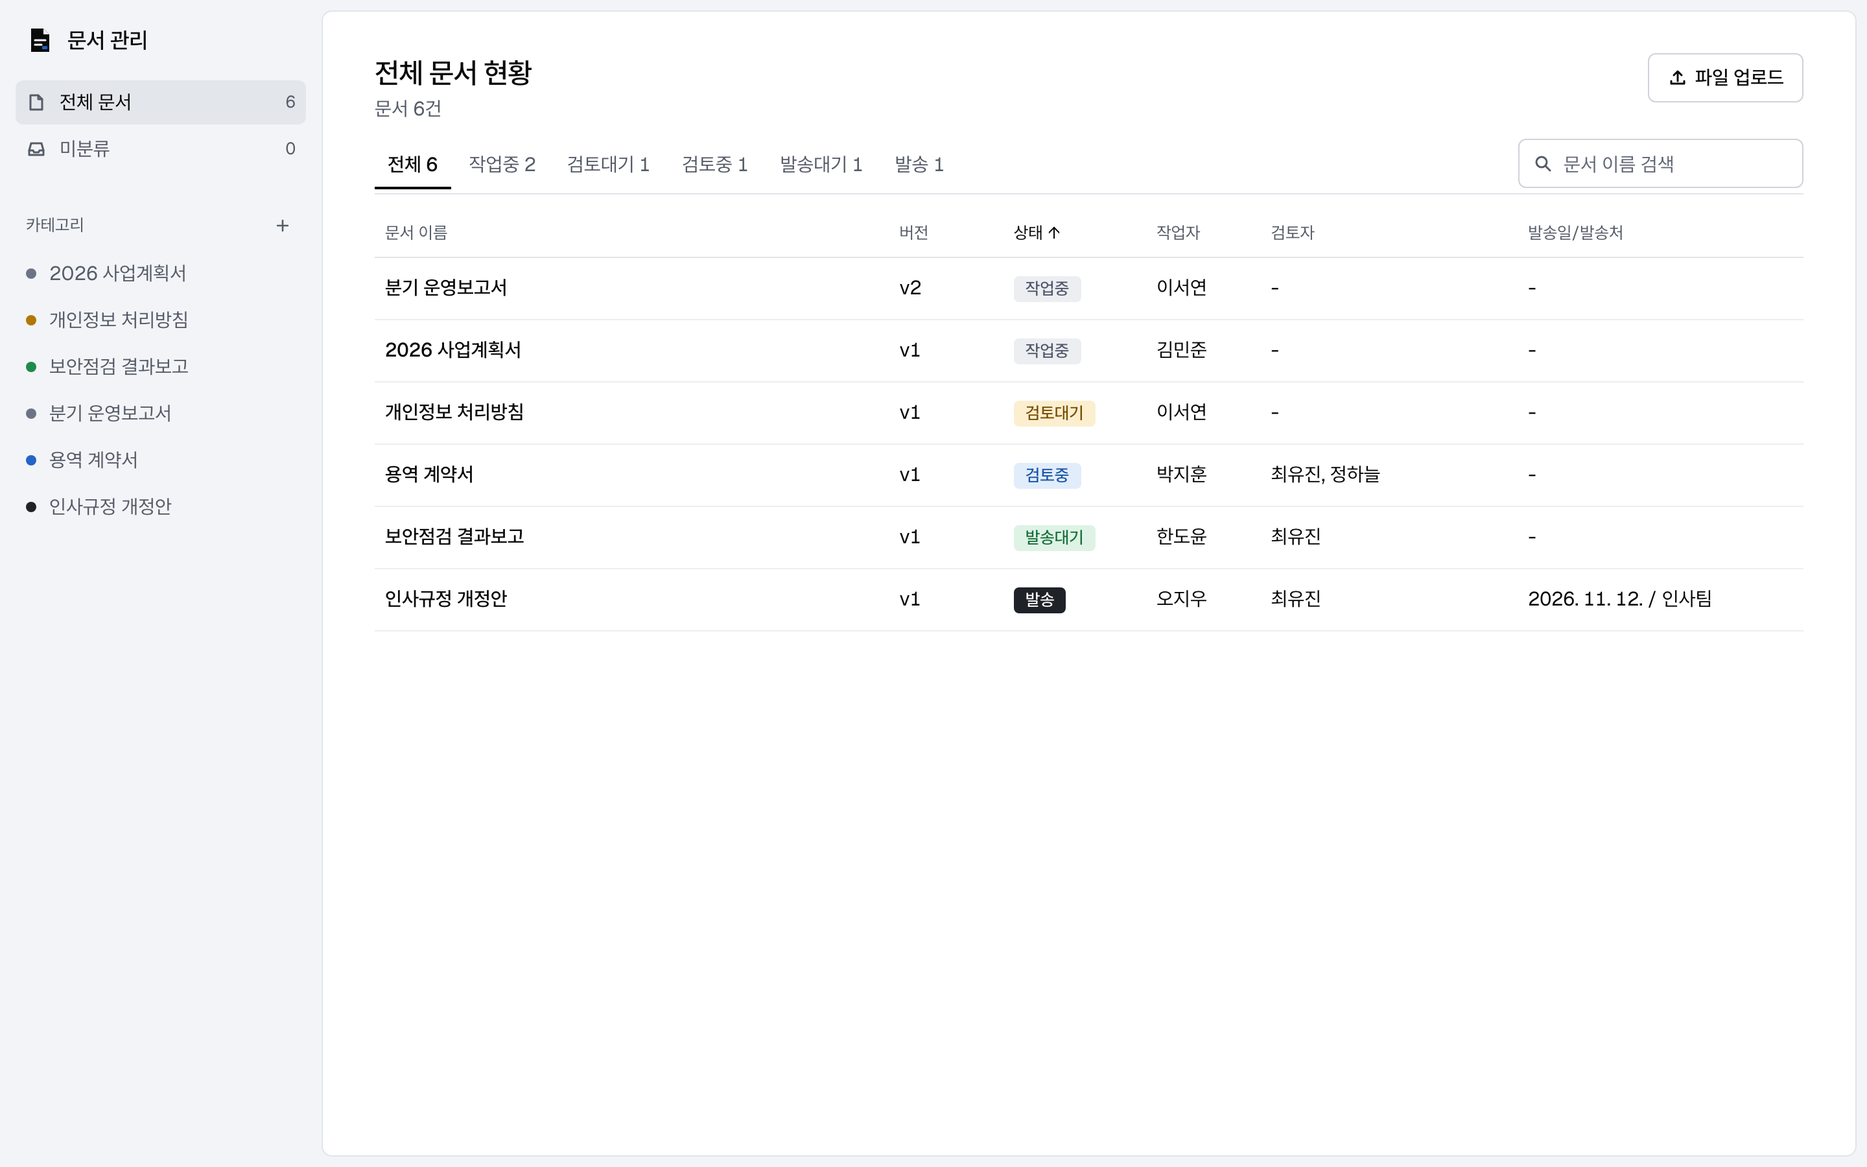
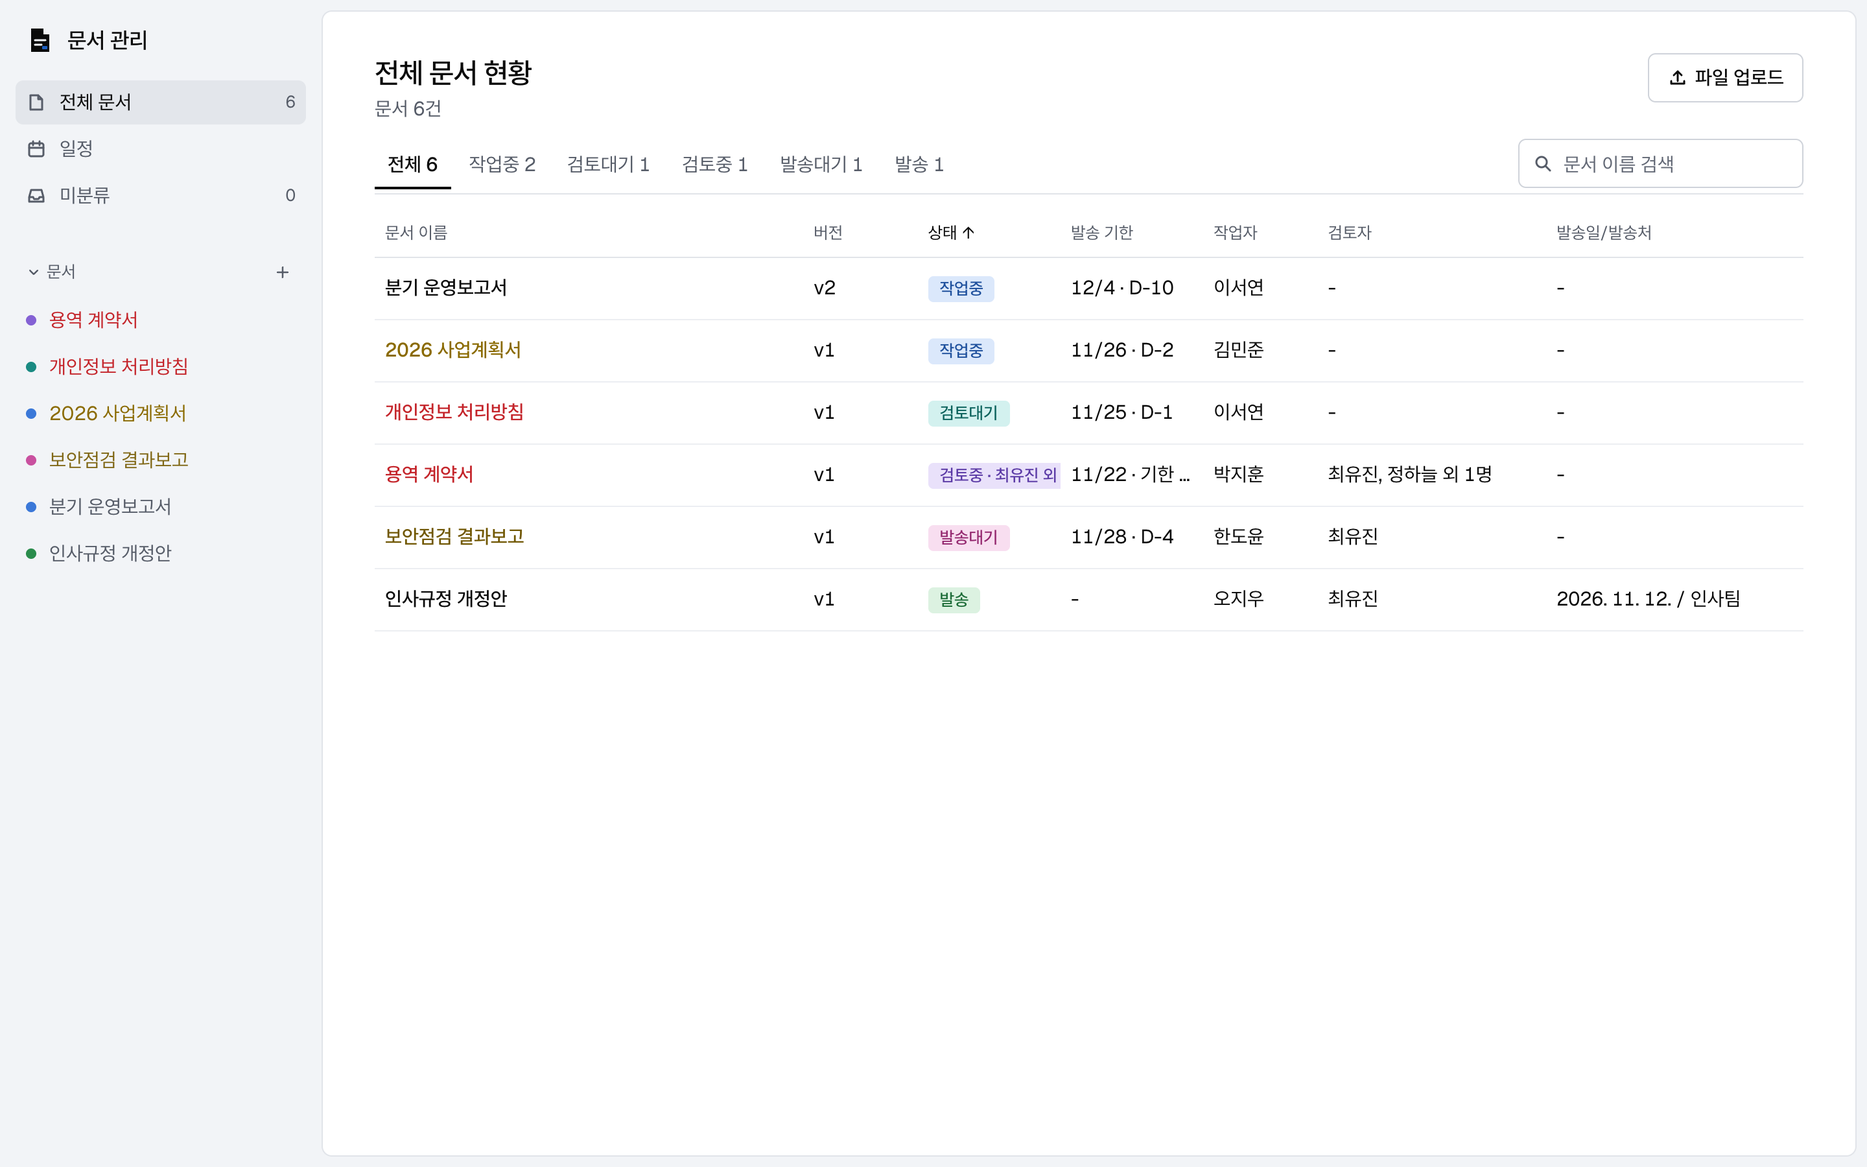
docs: README 다시 작성(일정 간트·발송 기한), 최신 스크린샷·ERD, schema.sql V2~V4 반영
- 루트 README: 일정(간트 차트)·발송 기한 알림·숨김 기능 절, schedule 도메인, 데이터 모델을 ERD 이미지로
- docs/images: board·category·versions를 지금 화면으로 다시 찍고 schedule.png, erd.png 추가
- backend/README(100줄 이내로 정리), frontend/README 추가
- docs/db/schema.sql: V2·V3·V4 합본 반영(SchemaTest 기준)

diff --git a/README.md b/README.md
@@ -2,7 +2,7 @@
 
 # File Manager
 
-문서의 작성, 검토, 발송 과정을 버전별로 기록하는 문서 관리 웹앱
+문서의 작성, 검토, 발송 과정을 버전별로 기록하고, 발송 일정을 간트 차트로 관리하는 문서 관리 웹앱
 
 ![Java](https://img.shields.io/badge/Java-17-007396?logo=openjdk&logoColor=white)
 ![Spring Boot](https://img.shields.io/badge/Spring%20Boot-4.1-6DB33F?logo=springboot&logoColor=white)
@@ -18,9 +18,9 @@
 
 ## 소개
 
-규정, 계약서, 보고서 같은 문서는 여러 번 고쳐서 나갑니다. 공유 폴더에 `최종.hwpx`, `최종_진짜.hwpx`, `최종_수정3.hwpx`가 쌓이면 어느 파일이 검토 중이고 어느 파일을 이미 보냈는지 헷갈립니다.
+규정, 계약서, 보고서 같은 문서는 여러 번 고쳐서 나갑니다. 공유 폴더에 `최종.hwpx`, `최종_진짜.hwpx`, `최종_수정3.hwpx`가 쌓이면 어느 파일이 검토 중이고 어느 파일을 이미 보냈는지, 언제까지 보내야 하는지 헷갈립니다.
 
-File Manager는 문서마다 버전을 만들고, 버전마다 원본, 수정본, 수정대조표를 묶어 둡니다. 각 버전은 아래 다섯 단계를 차례로 거치며, 누가 언제 작업하고 검토하고 발송했는지 기록됩니다.
+File Manager는 문서마다 버전을 만들고, 버전마다 원본, 수정본, 수정대조표를 묶어 둡니다. 각 버전은 아래 다섯 단계를 차례로 거치며, 누가 언제 작업하고 검토하고 발송했는지 기록됩니다. 언제까지 보낼지는 `일정` 화면의 간트 차트로 계획하고, 기한이 다가오는 문서는 화면 곳곳에서 색으로 알려 줍니다.
 
 ```
 작업중 ──▶ 검토대기 ──▶ 검토중 ──▶ 발송대기 ──▶ 발송
@@ -37,19 +37,63 @@ File Manager는 문서마다 버전을 만들고, 버전마다 원본, 수정본
     <td width="50%"><img src="docs/images/versions.png" alt="버전과 수정대조표" /></td>
   </tr>
   <tr>
-    <td align="center">검토중인 버전. 검토자와 검토 시작 시각이 남고, 여기서 승인하거나 거절합니다.</td>
+    <td align="center">검토중인 버전. 검토자와 검토 시작 시각이 남고, 여기서 승인하거나 거절합니다. 문서가 들어 있는 일정과 발송 기한도 보입니다.</td>
     <td align="center">v2의 원본은 v1의 제출본입니다. 수정본은 수정대조표와 함께 올려야 등록됩니다.</td>
+  </tr>
+  <tr>
+    <td colspan="2"><img src="docs/images/schedule.png" alt="일정(간트 차트)" /></td>
+  </tr>
+  <tr>
+    <td colspan="2" align="center">일정 화면. 일정마다 색칸이 깔리고, 문서별 막대는 시작일부터 발송 예정일까지입니다. 기한이 임박했거나 지났거나 일정 기간을 벗어난 문서는 붉은 점선으로 표시됩니다.</td>
   </tr>
 </table>
 
 ## 주요 기능
 
-- 카테고리 하나에 문서가 하나 있습니다. 사이드바에서 카테고리를 고르면 그 문서의 버전 목록이 열리고, 카테고리가 없는 문서는 `미분류`에 모입니다.
-- 작업완료, 검토 시작, 승인, 거절, 발송은 각각 취소할 수 있습니다. 승인과 거절 결정은 회차별 이력으로 남습니다.
+### 문서와 버전
+
+- 카테고리 하나에 문서가 하나 있습니다. 사이드바의 `문서` 목록에서 항목을 고르면 그 문서의 버전 목록이 열리고, 카테고리가 없는 문서는 `미분류`에 모입니다.
+- 첫 버전은 파일 없이 만들 수 있습니다. 원본은 나중에 올리고, 원본을 올려야 작업완료할 수 있습니다.
 - 수정본을 올릴 때는 원본과 비교한 수정대조표도 함께 올려야 합니다. 버전 문서는 `.hwpx`와 `.pdf`만 받습니다.
+- 작업완료, 검토 시작, 승인, 거절, 발송은 각각 취소할 수 있습니다. 승인과 거절 결정은 회차별 이력으로 남습니다.
 - 발송 전에 원본, 발송할 파일, 작업 기록, 검토 기록을 한 화면에서 확인합니다. 승인을 받지 않은 버전은 발송할 수 없습니다.
-- 전체 문서 현황판에서 단계별 탭, 이름 검색, 정렬로 문서를 찾습니다.
+- 단계는 색으로 구분합니다(작업중 파랑, 검토대기 청록, 검토중 보라, 발송대기 분홍, 발송 초록). 작업중이면 작업자, 검토중이면 검토자 이름(여럿이면 `홍길동 외 2명`)이 함께 보입니다.
 - 카테고리마다 빈 양식과 참고자료를 따로 보관할 수 있습니다.
+
+### 일정 (간트 차트)
+
+사이드바의 `일정`을 누르면 문서 발송 계획을 간트 차트로 봅니다.
+
+- **일정**은 이름(20자 이하)과 시작일·종료일을 가진 기간 묶음입니다. 등록하면 배경색(노랑, 하늘, 연두, 분홍, 살구, 청록)이 차례로 자동 배정되고, 차트에 그 기간만큼의 색칸으로 그려집니다.
+- **발송 문서**는 문서 하나의 시작일부터 발송 예정일까지를 나타내는 막대입니다. 일정 안에 넣거나 `일정과 관계없는 문서`로 둘 수 있고, 메모(20자 이하)를 붙일 수 있습니다. 같은 문서를 여러 번, 여러 일정에 등록할 수 있습니다.
+- 시간 축은 일·주·월 단위로 바꾸고, 오늘 날짜에 세로선이 그어집니다. 막대 색은 그 문서의 현재 단계 색입니다.
+- 막대를 끌어 다른 일정 칸에 놓으면 그 일정으로 옮겨집니다(날짜와 메모는 그대로). 수정 창에서 일정을 다시 고를 수도 있습니다.
+- 일정 기간을 벗어났거나, 발송 기한이 3일 이내이거나 지났는데 아직 발송하지 않은 문서는 `주의 필요`로 표시됩니다. 막대에 `기간 밖`, `기한 D-2`, `기한 넘김` 같은 표시가 붙고, 차트 위에 `확인이 필요한 문서가 N건 있습니다.`라고 알립니다.
+- 일정을 지워도 그 안의 발송 문서는 지워지지 않고 `일정과 관계없는 문서`로 남습니다. 그런 문서가 없으면 그 칸은 보이지 않습니다.
+- 문서 상세 화면에서도 그 문서가 들어 있는 일정과 발송 예정일을 볼 수 있습니다.
+
+### 발송 기한 알림
+
+발송 기한은 그 문서의 발송 문서 중 가장 빠른 발송 예정일입니다(이미 발송한 문서는 기한이 없습니다).
+
+| 남은 기간 | 문서 제목 색 |
+| --- | --- |
+| 8일 이상 | 원래 색 |
+| 4~7일 | 점점 노랑에 가까워짐 |
+| 2~3일 | 노랑 |
+| 1일 이하, 기한 넘김 | 빨강 |
+
+- 제목 색은 사이드바, 전체 문서 현황판, 문서 상세, 간트 차트에 똑같이 적용됩니다.
+- 사이드바의 문서 목록은 기한이 임박한 순으로 놓이고, 현황판은 `발송 기한` 열로 정렬할 수 있습니다.
+
+### 목록과 숨김
+
+- 전체 문서 현황판에서 단계별 탭, 이름 검색, 열 정렬로 문서를 찾습니다.
+- 보지 않을 문서는 사이드바 항목에 마우스를 올리면 나오는 버튼으로 숨깁니다. 숨긴 문서는 사이드바와 현황판의 `숨긴 문서` 칸(처음에는 접힘)으로 옮겨지고, 같은 자리에서 숨김을 해제합니다.
+- 사이드바의 `문서` 목록은 접었다 펼 수 있습니다.
+
+### 파일 저장
+
 - 파일은 `카테고리/버전/{제목} {버전}_{yyyyMMdd}_{작업자}.pdf` 형태로 저장됩니다. 앱을 거치지 않고 SMB 공유 폴더를 직접 열어도 파일을 찾을 수 있습니다.
 
 ## 아키텍처
@@ -65,20 +109,21 @@ File Manager는 문서마다 버전을 만들고, 버전마다 원본, 수정본
 
 | 영역 | 기술 |
 | --- | --- |
-| Frontend | React 19, TypeScript, Vite, oxlint. UI 라이브러리 없이 CSS만 사용 |
+| Frontend | React 19, TypeScript, Vite, oxlint. UI 라이브러리 없이 CSS만 사용(간트 차트도 직접 구현) |
 | Backend | Spring Boot 4 (Web MVC, Data JPA), Flyway, Java 17 |
 | Database | 운영은 MySQL 8, 개발과 테스트는 H2 MySQL 모드 |
 | Storage | 로컬 디렉터리, 또는 Docker CIFS 볼륨으로 마운트한 SMB 공유 |
 | Infra | Docker Compose (MySQL, backend, nginx frontend, 백업 작업) |
 
-백엔드는 도메인(`category`, `document`, `file`, `resource`)마다 `presentation → application → domain ← infrastructure` 레이어로 나뉩니다. 패키지 의존 방향과 JDBC 직접 사용 금지는 `ArchitectureTest`가 검사합니다.
+백엔드는 도메인마다 `presentation → application → domain ← infrastructure` 레이어로 나뉩니다. 패키지 의존 방향과 JDBC 직접 사용 금지는 `ArchitectureTest`가 검사합니다.
 
 ```
 backend/src/main/java/com/fileManager
-├── category/   카테고리 CRUD, 이름 변경·삭제 이벤트
+├── category/   카테고리 CRUD·숨김, 이름 변경·삭제 이벤트
 ├── document/   문서·버전·단계 전이(StageService)
 ├── file/       저장 경로 규칙, 로컬/UNC 파일 저장
 ├── resource/   분류별 양식·참고자료
+├── schedule/   일정(간트): 발송 문서·일정·보기 설정 API
 └── global/     config · error · util
 ```
 
@@ -130,15 +175,10 @@ cd frontend && npm run lint && npm run build
 | `FILEMANAGER_SMB_VERS` | `2.1` | SMB 프로토콜 버전 |
 | `FILEMANAGER_MYSQL_BACKUP_KEEP_DAYS` | `0` | 이 일수보다 오래된 백업을 삭제. 0이면 지우지 않음 |
 
-전체 목록과 설명은 [`.env.example`](.env.example)에 있습니다.
-
 ## 데이터 모델
 
-```
-categories 1 ── 0..1 documents 1 ── * document_versions 1 ── * version_files ── stored_files
-                                                       ├── * version_reviewers
-                                                       └── * version_review_rounds ── review_round_reviewers
-categories 1 ── * category_resources ── stored_files
-```
+<img src="docs/images/erd.png" alt="ERD" width="100%" />
 
-DDL은 [`docs/db/schema.sql`](docs/db/schema.sql), 마이그레이션은 [`backend/src/main/resources/db/migration`](backend/src/main/resources/db/migration)에 있습니다.
+- 카테고리 하나에 문서가 하나 있고(`documents.category_id` UNIQUE), 카테고리가 없는 문서는 미분류입니다.
+- `stored_files`는 파일 본문의 저장 위치이고, 버전 파일·양식·검토본이 이를 가리킵니다.
+- `schedules`는 발송 문서입니다. 문서가 지워지면 함께 지워지고, 일정(`schedule_groups`)이 지워지면 `group_id`만 비워집니다.

diff --git a/backend/README.md b/backend/README.md
@@ -1,0 +1,84 @@
+# 백엔드
+
+문서 관리 웹앱의 REST 서버다. Java 17 + Spring Boot 4.1.2 + Gradle 래퍼 + Spring Data JPA, DB는 MySQL 8이고 스키마는 Flyway가 만든다. 파일 본문은 DB가 아니라 저장 루트 아래 폴더에 둔다. MySQL이 없으면 `dev` 프로필(H2 파일 DB, MySQL 모드)로 돌린다.
+
+## 실행
+
+```
+./gradlew bootRun                                         # MySQL로 실행. http://localhost:8080/api
+./gradlew bootRun --args='--spring.profiles.active=dev'   # MySQL 없이 H2 파일 DB로 실행
+./gradlew test                                            # 통합 테스트(H2 MySQL 모드)
+./gradlew build                                           # 빌드 + 테스트
+```
+
+- `JAVA_HOME`은 JDK 17 이상이어야 Gradle 래퍼가 뜬다. 툴체인 JDK 17은 Gradle이 받는다.
+- 실행 인자(`--이름=값`)가 `application.yml`보다 우선한다. 예: `--server.port=8081`.
+- CORS 허용 출처는 `fileManager.cors.allowed-origins`(기본 `http://localhost:5173`, `http://localhost:4173`)다. 프런트는 보통 프록시로 부르므로 `VITE_API_BASE`에 절대 주소를 줄 때만 필요하다.
+
+## DB
+
+MySQL 8.0.16 이상. DB `fileManager`는 처음 연결할 때 만들어진다(`createDatabaseIfNotExist=true`).
+
+| 설정 키 | 환경변수 | 기본값 |
+|---|---|---|
+| `spring.datasource.url` | `FILEMANAGER_DB_URL` | `jdbc:mysql://localhost:3306/fileManager?createDatabaseIfNotExist=true&connectionTimeZone=UTC&characterEncoding=UTF-8` |
+| `spring.datasource.username` | `FILEMANAGER_DB_USERNAME` | `fileManager` |
+| `spring.datasource.password` | `FILEMANAGER_DB_PASSWORD` | `fileManager1!` |
+
+- `dev` 프로필은 `./data/db/fileManager`(실행 디렉터리 기준) H2 파일을 쓴다. 다른 위치는 `--spring.datasource.url=jdbc:h2:file:<경로>;MODE=MySQL;DATABASE_TO_LOWER=TRUE`로 준다.
+- Hibernate는 스키마를 바꾸지 않는다(`ddl-auto: none`). 시각은 UTC로 저장한다.
+
+## 스키마 변경
+
+- 마이그레이션은 `src/main/resources/db/migration/V{n}__*.sql`이다. 이미 있는 파일은 고치지 않고 새 번호 파일을 더한다.
+- `docs/db/schema.sql`은 V1부터 마지막 번호까지를 차례로 이어 붙인 사본이다. 새 파일을 더하면 같은 내용을 `schema.sql` 끝에도 붙인다. `SchemaTest`가 일치를 확인한다.
+
+## 저장 루트
+
+- 설정 `fileManager.storage-root`(기본 `./data/storage`), 환경변수 `FILEMANAGER_STORAGE_ROOT`. UNC 경로(SMB 공유)도 된다: `--fileManager.storage-root=//192.168.0.8/Media/repository`.
+- 다른 DB를 쓰는 두 서버가 같은 저장 루트를 함께 쓰지 않는다.
+
+```
+{루트}/{카테고리}/{버전}/{저장 이름}           원본, 원본을 거절한 검토본
+{루트}/{카테고리}/{버전}/edit{n}/{저장 이름}   수정본 n번과 수정대조표, 그 수정본을 거절한 검토본
+{루트}/{카테고리}/_자료/{파일 이름}            양식·참고자료
+{루트}/_미분류/{문서 제목}/{버전}/…            카테고리가 없는 문서
+저장 이름 = {카테고리} {버전}[ 수정대조표|검토본]_{yyyyMMdd}_{작업자|검토자}.{확장자}
+```
+
+- 이름 규칙은 `file/domain/StorageLayout`, 금지 문자 처리는 `file/infrastructure/PathNames`에 있다. 같은 이름이 있으면 ` (2)`가 붙는다.
+- 카테고리·버전 이름을 바꾸면 폴더와 파일 이름이 따라 바뀐다. 폴더 삭제는 커밋 뒤에 하고, 롤백되면 이동·이름 변경을 역순으로 되돌린다.
+
+## 초기화
+
+서버를 끄고 DB를 비우고(MySQL `DROP DATABASE`, `dev`는 `data/db` 삭제) 저장 루트를 지운다. 하나만 지우면 DB와 파일이 어긋난다. 저장 루트가 SMB 공유면 공유 파일은 사람이 직접 정리한다.
+
+## 도커 이미지
+
+```
+docker build -t filemanager-backend .
+docker run -d -p 8080:8080 -e FILEMANAGER_DB_URL='jdbc:mysql://<호스트>:3306/fileManager?createDatabaseIfNotExist=true&connectionTimeZone=UTC&characterEncoding=UTF-8' -e FILEMANAGER_DB_PASSWORD=<비밀번호> -v fm-storage:/app/data/storage filemanager-backend
+```
+
+- JDK 17로 `bootJar`를 만들고 JRE 17로 실행하는 멀티스테이지다. 이미지 빌드는 테스트를 돌리지 않는다. 이미지는 MySQL 전용이다.
+- 저장 루트는 `/app/data/storage`(`VOLUME`), 사용자는 uid 10001이다.
+- 루트의 `docker-compose.yml`은 MySQL·백엔드·프런트를 함께 띄우고 저장 루트에 SMB 공유를 CIFS 볼륨으로 붙인다.
+
+## 패키지 (`com.fileManager`)
+
+도메인마다 `presentation → application → domain ← infrastructure` 네 계층이고, 공용 코드는 `global`(`config`, `error`, `util`)에 있다.
+
+| 도메인 | 하는 일 |
+|---|---|
+| `file` | 파일 행과 본문 저장소, 다운로드 `GET /api/files/{id}` |
+| `category` | 카테고리 API(숨김 포함), 카테고리 폴더, 이름 변경·삭제 이벤트 |
+| `resource` | 카테고리 양식·참고자료 |
+| `document` | 문서·버전·파일, 단계 전이(작업완료·검토·발송)와 취소 |
+| `schedule` | 발송 문서(`Schedule`), 일정(`ScheduleGroup`), 보기 설정 |
+
+- 도메인 의존: `file ← category ← resource, document`, `document ← schedule`. 아래 도메인은 위를 모르고, 위로 알릴 때는 이벤트(`CategoryRenamedEvent`, `CategoryDeletingEvent`)를 쓴다.
+- `domain` 계층은 Spring·Hibernate·`java.nio.file`을 쓰지 않는다(엔티티의 `jakarta.persistence`만 허용). `ArchitectureTest`가 확인한다.
+
+## 테스트
+
+`./gradlew test`는 MySQL 없이 H2 인메모리(MySQL 모드)로 돈다. 통합 테스트는 `ApiTestSupport`를 상속해 HTTP로 부른다. `file/LocalFileStorageUncTest`는 Windows에서 환경변수 `FILEMANAGER_UNC_TEST_ROOT`를 줄 때만 돈다(`./gradlew cleanTest test --tests 'com.fileManager.file.LocalFileStorageUncTest'`).

diff --git a/frontend/README.md b/frontend/README.md
@@ -1,0 +1,42 @@
+# 문서 관리 프론트엔드
+
+React 19 + TypeScript + Vite + plain CSS. 데이터는 백엔드(`../backend`)가 보관하고 프런트는 `/api`로 부른다. 브라우저 저장소(localStorage, IndexedDB)는 쓰지 않는다.
+
+```bash
+npm install
+npm run dev      # http://localhost:5173 (먼저 백엔드를 띄운다)
+npm run build    # tsc -b && vite build -> dist
+npm run lint     # oxlint
+npm run preview  # 빌드 결과 미리보기
+```
+
+저장 계층은 `src/api/storage.ts`이고 백엔드 REST API를 fetch로 부른다. 서버 오류는 응답의 `message`를 `Error`로 던져 화면에 그대로 보인다.
+
+- 개발 순서: 백엔드(`cd ../backend && ./gradlew bootRun`, 포트 8080)를 먼저 띄우고 `npm run dev`를 실행한다. `npm run dev`와 `npm run preview`는 `/api`를 `http://localhost:8080`으로 프록시한다(`vite.config.ts`).
+- 기본 주소는 `/api`(같은 출처)다. 환경변수 `VITE_API_BASE`에 절대 주소를 주면 그 주소를 부르며, 이때는 백엔드 CORS 허용 origin이 필요하다.
+- 백엔드가 꺼져 있으면 첫 목록 읽기가 실패해 화면이 비어 있다.
+
+## 도커 이미지
+
+`frontend/Dockerfile`은 `node:22-bookworm-slim`에서 `npm ci && npm run build`로 `dist`를 만들고, 공식 nginx 이미지가 그것을 80번 포트로 내보내는 멀티스테이지다. TypeScript 7 네이티브 바이너리가 glibc용이라 alpine 이미지는 쓰지 않는다. 빌드하는 동안 npm 레지스트리에 접근해야 한다.
+
+```bash
+cd frontend
+docker build -t filemanager-frontend .
+```
+
+| 환경변수 | 이미지 기본값 | 설명 |
+|---|---|---|
+| `BACKEND_URL` | `http://backend:8080` | `/api` 요청을 넘길 백엔드 주소. `http://호스트:포트` 형식이며 경로나 끝의 `/`는 붙이지 않는다. 시작할 때 envsubst가 nginx 템플릿(`nginx/default.conf.template`)에 이 값을 넣는다 |
+
+백엔드가 호스트의 8080에 떠 있을 때의 실행 예(접속 주소 `http://localhost:3000`):
+
+```bash
+docker run -d -p 3000:80 -e BACKEND_URL=http://host.docker.internal:8080 filemanager-frontend
+```
+
+- Linux 호스트에서 `host.docker.internal`을 쓰려면 `--add-host=host.docker.internal:host-gateway`를 함께 준다.
+- 같은 도커 네트워크에 `backend`라는 이름의 컨테이너가 있으면 `BACKEND_URL`을 생략할 수 있다. 백엔드 이름을 해석하지 못하면 nginx가 시작하지 않는다.
+- `VITE_API_BASE` 없이 빌드하므로 화면은 같은 출처의 `/api`를 부르고 nginx가 그 요청을 백엔드로 넘긴다. 그래서 백엔드 CORS 설정을 바꿀 필요가 없다.
+- 업로드 한도는 백엔드(요청 210MB)가 정하고 nginx는 220m까지 받는다.
+- SPA 경로는 `index.html`로 돌아간다.
